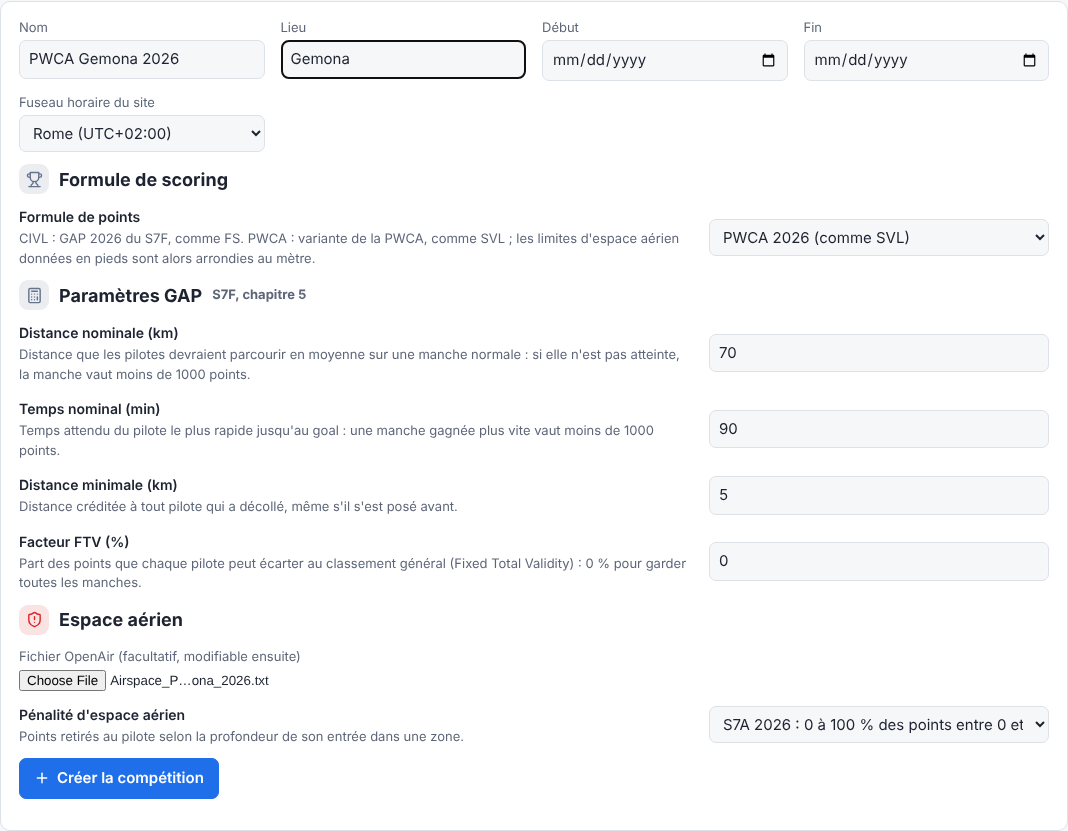
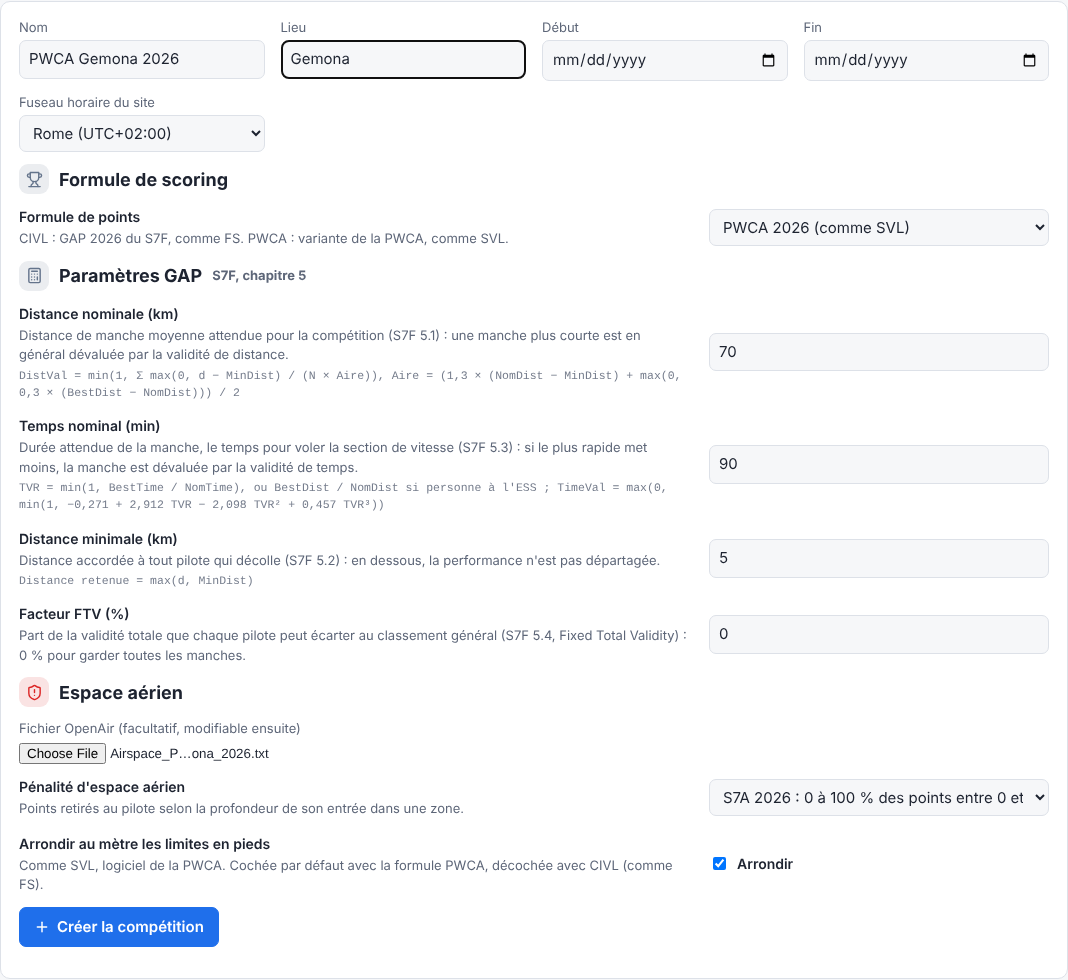
Formules S7F sous les paramètres GAP, arrondi des limites de retour dans la rubrique espace aérien
- Explications revues sur le S7F 5.1 à 5.4, et formule associée en petit sous
  la distance nominale, le temps nominal et la distance minimale.
- Case « Arrondir au mètre les limites en pieds » en fin de rubrique espace
  aérien : cochée par défaut avec PWCA, décochée avec CIVL ; gardée seulement
  si elle s'écarte de la formule, sinon elle la suit.
- Route /airspace/settings pour la pénalité et l'arrondi.

Claude-Session: https://claude.ai/code/session_01QVre6jBDZyAb5KJLDa45nt

diff --git a/apps/web/src/pages/competition.tsx b/apps/web/src/pages/competition.tsx
@@ -1,7 +1,7 @@
 import type { FC } from "hono/jsx";
 import { type Task } from "@pgscore/engine";
 import type { CompetitionRow, PilotRow, TaskRow, User } from "../db.js";
-import { GAP_PROFILES, PENALTY_RULES, type CompetitionSettings } from "../settings.js";
+import { GAP_PROFILES, PENALTY_RULES, roundsAirspaceLimits, type CompetitionSettings } from "../settings.js";
 import { km, timeZoneGroups } from "../time.js";
 import { t } from "../i18n.js";
 import { PILOT_COLUMNS } from "../pilots.js";
@@ -18,11 +18,12 @@ export interface CompetitionFormValues {
 }
 
 /** Un paramètre sur sa ligne : libellé et phrase d'explication à gauche, champ à droite. */
-const Param: FC<{ id: string; label: string; help: string; children: unknown }> = ({ id, label, help, children }) => (
+const Param: FC<{ id: string; label: string; help: string; formula?: string; children: unknown }> = ({ id, label, help, formula, children }) => (
   <div class="param">
     <div>
       <label for={id}>{label}</label>
       <p class="small muted">{help}</p>
+      {formula ? <p class="formula">{formula}</p> : null}
     </div>
     {children}
   </div>
@@ -70,7 +71,7 @@ export const CompetitionFields: FC<{ v: CompetitionFormValues }> = ({ v }) => {
         <Param
           id="gapProfile"
           label={t("Formule de points")}
-          help={t("CIVL : GAP 2026 du S7F, comme FS. PWCA : variante de la PWCA, comme SVL ; les limites d'espace aérien données en pieds sont alors arrondies au mètre.")}
+          help={t("CIVL : GAP 2026 du S7F, comme FS. PWCA : variante de la PWCA, comme SVL.")}
         >
           <select name="gapProfile" id="gapProfile">
             {Object.entries(GAP_PROFILES).map(([k, l]) => (
@@ -90,28 +91,31 @@ export const CompetitionFields: FC<{ v: CompetitionFormValues }> = ({ v }) => {
         <Param
           id="nominalDistance"
           label={t("Distance nominale (km)")}
-          help={t("Distance que les pilotes devraient parcourir en moyenne sur une manche normale : si elle n'est pas atteinte, la manche vaut moins de 1000 points.")}
+          help={t("Distance de manche moyenne attendue pour la compétition (S7F 5.1) : une manche plus courte est en général dévaluée par la validité de distance.")}
+          formula={t("DistVal = min(1, Σ max(0, d − MinDist) / (N × Aire)), Aire = (1,3 × (NomDist − MinDist) + max(0, 0,3 × (BestDist − NomDist))) / 2")}
         >
           <input type="number" step="0.1" min="0" name="nominalDistance" id="nominalDistance" value={String(s.nominalDistance / 1000)} />
         </Param>
         <Param
           id="nominalTime"
           label={t("Temps nominal (min)")}
-          help={t("Temps attendu du pilote le plus rapide jusqu'au goal : une manche gagnée plus vite vaut moins de 1000 points.")}
+          help={t("Durée attendue de la manche, le temps pour voler la section de vitesse (S7F 5.3) : si le plus rapide met moins, la manche est dévaluée par la validité de temps.")}
+          formula={t("TVR = min(1, BestTime / NomTime), ou BestDist / NomDist si personne à l'ESS ; TimeVal = max(0, min(1, −0,271 + 2,912 TVR − 2,098 TVR² + 0,457 TVR³))")}
         >
           <input type="number" step="1" min="1" name="nominalTime" id="nominalTime" value={String(s.nominalTime / 60)} />
         </Param>
         <Param
           id="minimumDistance"
           label={t("Distance minimale (km)")}
-          help={t("Distance créditée à tout pilote qui a décollé, même s'il s'est posé avant.")}
+          help={t("Distance accordée à tout pilote qui décolle (S7F 5.2) : en dessous, la performance n'est pas départagée.")}
+          formula={t("Distance retenue = max(d, MinDist)")}
         >
           <input type="number" step="0.1" min="0" name="minimumDistance" id="minimumDistance" value={String(s.minimumDistance / 1000)} />
         </Param>
         <Param
           id="ftvFactor"
           label={t("Facteur FTV (%)")}
-          help={t("Part des points que chaque pilote peut écarter au classement général (Fixed Total Validity) : 0 % pour garder toutes les manches.")}
+          help={t("Part de la validité totale que chaque pilote peut écarter au classement général (S7F 5.4, Fixed Total Validity) : 0 % pour garder toutes les manches.")}
         >
           <input type="number" step="1" min="0" max="100" name="ftvFactor" id="ftvFactor" value={String(Math.round(s.ftvFactor * 100))} />
         </Param>
@@ -120,17 +124,28 @@ export const CompetitionFields: FC<{ v: CompetitionFormValues }> = ({ v }) => {
   );
 };
 
-/** Barème de pénalité d'espace aérien, dans la rubrique espace aérien. */
-const PenaltyField: FC<{ rule: CompetitionSettings["airspacePenaltyRule"] }> = ({ rule }) => (
+/** Réglages de la rubrique espace aérien : barème de pénalité, puis arrondi des limites en pieds. */
+const AirspaceFields: FC<{ s: CompetitionSettings; follow: boolean }> = ({ s, follow }) => (
   <div class="params">
     <Param id="airspacePenaltyRule" label={t("Pénalité d'espace aérien")} help={t("Points retirés au pilote selon la profondeur de son entrée dans une zone.")}>
       <select name="airspacePenaltyRule" id="airspacePenaltyRule">
         {Object.entries(PENALTY_RULES).map(([k, l]) => (
-          <option value={k} selected={rule === k}>
+          <option value={k} selected={s.airspacePenaltyRule === k}>
             {t(l)}
           </option>
         ))}
       </select>
+    </Param>
+    <Param
+      id="roundAirspaceLimits"
+      label={t("Arrondir au mètre les limites en pieds")}
+      help={t("Comme SVL, logiciel de la PWCA. Cochée par défaut avec la formule PWCA, décochée avec CIVL (comme FS).")}
+    >
+      <label class="check">
+        <input type="hidden" name="airspaceRoundingField" value="1" />
+        <input type="checkbox" name="roundAirspaceLimits" id="roundAirspaceLimits" checked={roundsAirspaceLimits(s)} data-follow-pwca={follow ? "1" : undefined} />
+        {t("Arrondir")}
+      </label>
     </Param>
   </div>
 );
@@ -189,7 +204,7 @@ export const NewCompetitionPage: FC<{ user: User | null; v: CompetitionFormValue
       <label>{t("Fichier OpenAir (facultatif, modifiable ensuite)")}</label>
       <input type="file" name="airspace" accept=".txt,.air,.openair" />
       <div class="mt" data-if-file="airspace" hidden>
-        <PenaltyField rule={v.settings.airspacePenaltyRule} />
+        <AirspaceFields s={v.settings} follow={v.settings.airspaceRounding === undefined} />
       </div>
       <p class="mt">
         <button class="primary">
@@ -462,8 +477,8 @@ const CompetitionEdit: FC<{ c: CompetitionRow; v: CompetitionFormValues; pilots:
         </button>
       </form>
       {c.airspace_name ? (
-        <form method="post" action={`/competitions/${c.id}/airspace/penalty`} class="mt">
-          <PenaltyField rule={v.settings.airspacePenaltyRule} />
+        <form method="post" action={`/competitions/${c.id}/airspace/settings`} class="mt">
+          <AirspaceFields s={v.settings} follow={false} />
           <p class="mt">
             <button class="primary">
               <Bi n="save" />

diff --git a/apps/web/src/settings.ts b/apps/web/src/settings.ts
@@ -15,6 +15,11 @@ export interface CompetitionSettings extends CompetitionParameters {
   /** Formule de points : GAP 2026 de la CIVL (comme FS) ou variante PWCA (comme SVL). */
   gapProfile: GapProfile;
   airspacePenaltyRule: AirspacePenaltyRule;
+  /**
+   * Arrondi au mètre des limites d'espace aérien converties depuis les pieds (comme SVL). Non réglé :
+   * suit la formule (arrondi avec PWCA, pas avec CIVL).
+   */
+  airspaceRounding?: boolean;
   /** Fuseau horaire du site, pour afficher et saisir les heures locales. */
   timeZone: string;
 }
@@ -56,14 +61,17 @@ export const GOAL_LINE_ORIENTATIONS: Record<NonNullable<Task["goalLineOrientatio
 };
 
 /**
- * Limites d'espace aérien converties depuis les pieds arrondies au mètre : avec la formule PWCA,
- * comme SVL (logiciel de la PWCA) ; sans arrondi avec la formule CIVL, comme FS.
+ * Limites d'espace aérien converties depuis les pieds arrondies au mètre : choix de la rubrique espace
+ * aérien, sinon selon la formule : arrondi avec PWCA, comme SVL (logiciel de la PWCA) ; sans arrondi
+ * avec CIVL, comme FS.
  */
-export const roundsAirspaceLimits = (s: Pick<CompetitionSettings, "gapProfile">): boolean => s.gapProfile === "PWCA";
+export const roundsAirspaceLimits = (s: Pick<CompetitionSettings, "gapProfile" | "airspaceRounding">): boolean =>
+  s.airspaceRounding ?? s.gapProfile === "PWCA";
 
 export function parseSettings(json: string): CompetitionSettings {
   // leadingProfile : ancien choix du calcul de leading, retiré (un seul calcul, celui de FS et SVL).
-  // roundAirspaceLimits : ancienne case à cocher, l'arrondi suit maintenant la formule.
+  // roundAirspaceLimits : ancienne case, décochée par défaut quelle que soit la formule ; remplacée par
+  // airspaceRounding, qui suit la formule tant qu'il n'est pas réglé.
   const { leadingProfile: _old, roundAirspaceLimits: _round, ...stored } = JSON.parse(json) as Partial<CompetitionSettings> & {
     leadingProfile?: unknown;
     roundAirspaceLimits?: unknown;
@@ -88,6 +96,16 @@ function isTimeZone(tz: string): boolean {
   }
 }
 
+/**
+ * Arrondi des limites lu depuis la rubrique espace aérien (case présente) ; à défaut, celui d'avant.
+ * Gardé seulement s'il s'écarte de celui de la formule : sinon il continue de suivre la formule.
+ */
+export function airspaceRoundingFromForm(form: Record<string, unknown>, gapProfile: GapProfile, previous: boolean | undefined): boolean | undefined {
+  if (form.airspaceRoundingField !== "1") return previous;
+  const round = form.roundAirspaceLimits === "on";
+  return round === roundsAirspaceLimits({ gapProfile }) ? undefined : round;
+}
+
 /** Barème de pénalité d'espace aérien lu depuis le formulaire ; à défaut, celui d'avant. */
 export function penaltyRuleFromForm(form: Record<string, unknown>, previous: AirspacePenaltyRule = DEFAULT_SETTINGS.airspacePenaltyRule): AirspacePenaltyRule {
   if (form.airspacePenaltyRule === undefined || form.airspacePenaltyRule === "") return previous;
@@ -97,8 +115,8 @@ export function penaltyRuleFromForm(form: Record<string, unknown>, previous: Air
 }
 
 /**
- * Réglages lus depuis le formulaire (distances en km, temps en minutes, FTV en %). La pénalité
- * d'espace aérien se règle dans sa propre rubrique : absente du formulaire, on garde celle d'avant.
+ * Réglages lus depuis le formulaire (distances en km, temps en minutes, FTV en %). La pénalité et
+ * l'arrondi d'espace aérien se règlent dans leur rubrique : absents du formulaire, on garde ceux d'avant.
  */
 export function settingsFromForm(form: Record<string, unknown>, previous: CompetitionSettings = DEFAULT_SETTINGS): CompetitionSettings {
   const gapProfile = String(form.gapProfile ?? DEFAULT_SETTINGS.gapProfile) as GapProfile;
@@ -117,10 +135,12 @@ export function settingsFromForm(form: Record<string, unknown>, previous: Compet
   } catch (e) {
     throw new FormError((e as Error).message);
   }
+  const airspaceRounding = airspaceRoundingFromForm(form, gapProfile, previous.airspaceRounding);
   return {
     ...params,
     gapProfile,
     airspacePenaltyRule,
+    ...(airspaceRounding !== undefined ? { airspaceRounding } : {}),
     timeZone,
   };
 }

diff --git a/apps/web/src/i18n/es.ts b/apps/web/src/i18n/es.ts
@@ -481,14 +481,20 @@ const dict: Record<string, string> = {
   "Distance minimale (km)": "Distancia mínima (km)",
   "Temps nominal (min)": "Tiempo nominal (min)",
   "Facteur FTV (%)": "Factor FTV (%)",
+  "CIVL : GAP 2026 du S7F, comme FS. PWCA : variante de la PWCA, comme SVL.": "CIVL: GAP 2026 del S7F, como FS. PWCA: variante de la PWCA, como SVL.",
+  "Distance de manche moyenne attendue pour la compétition (S7F 5.1) : une manche plus courte est en général dévaluée par la validité de distance.": "Distancia media de manga esperada para la competición (S7F 5.1): una manga más corta suele devaluarse por la validez de distancia.",
+  "DistVal = min(1, Σ max(0, d − MinDist) / (N × Aire)), Aire = (1,3 × (NomDist − MinDist) + max(0, 0,3 × (BestDist − NomDist))) / 2": "DistVal = min(1, Σ max(0, d − MinDist) / (N × Área)), Área = (1,3 × (NomDist − MinDist) + max(0, 0,3 × (BestDist − NomDist))) / 2",
+  "Durée attendue de la manche, le temps pour voler la section de vitesse (S7F 5.3) : si le plus rapide met moins, la manche est dévaluée par la validité de temps.": "Duración esperada de la manga, el tiempo para volar la sección de velocidad (S7F 5.3): si el más rápido tarda menos, la manga se devalúa por la validez de tiempo.",
+  "TVR = min(1, BestTime / NomTime), ou BestDist / NomDist si personne à l'ESS ; TimeVal = max(0, min(1, −0,271 + 2,912 TVR − 2,098 TVR² + 0,457 TVR³))": "TVR = min(1, BestTime / NomTime), o BestDist / NomDist si nadie llega al ESS; TimeVal = max(0, min(1, −0,271 + 2,912 TVR − 2,098 TVR² + 0,457 TVR³))",
+  "Distance accordée à tout pilote qui décolle (S7F 5.2) : en dessous, la performance n'est pas départagée.": "Distancia otorgada a todo piloto que despega (S7F 5.2): por debajo, el rendimiento no se desempata.",
+  "Distance retenue = max(d, MinDist)": "Distancia puntuada = max(d, MinDist)",
+  "Part de la validité totale que chaque pilote peut écarter au classement général (S7F 5.4, Fixed Total Validity) : 0 % pour garder toutes les manches.": "Parte de la validez total que cada piloto puede descartar en la clasificación general (S7F 5.4, Fixed Total Validity): 0 % para conservar todas las mangas.",
+  "Arrondir au mètre les limites en pieds": "Redondear al metro los límites en pies",
+  "Comme SVL, logiciel de la PWCA. Cochée par défaut avec la formule PWCA, décochée avec CIVL (comme FS).": "Como SVL, el software de la PWCA. Marcada por defecto con la fórmula PWCA, desmarcada con CIVL (como FS).",
+  "Arrondir": "Redondear",
   "Formule de scoring": "Fórmula de puntuación",
-  "CIVL : GAP 2026 du S7F, comme FS. PWCA : variante de la PWCA, comme SVL ; les limites d'espace aérien données en pieds sont alors arrondies au mètre.": "CIVL: GAP 2026 del S7F, como FS. PWCA: variante de la PWCA, como SVL; los límites de espacio aéreo dados en pies se redondean entonces al metro.",
   "Paramètres GAP": "Parámetros GAP",
   "S7F, chapitre 5": "S7F, capítulo 5",
-  "Distance que les pilotes devraient parcourir en moyenne sur une manche normale : si elle n'est pas atteinte, la manche vaut moins de 1000 points.": "Distancia que los pilotos deberían recorrer de media en una manga normal: si no se alcanza, la manga vale menos de 1000 puntos.",
-  "Temps attendu du pilote le plus rapide jusqu'au goal : une manche gagnée plus vite vaut moins de 1000 points.": "Tiempo esperado del piloto más rápido hasta el gol: una manga ganada más rápido vale menos de 1000 puntos.",
-  "Distance créditée à tout pilote qui a décollé, même s'il s'est posé avant.": "Distancia acreditada a todo piloto que despegó, aunque haya aterrizado antes.",
-  "Part des points que chaque pilote peut écarter au classement général (Fixed Total Validity) : 0 % pour garder toutes les manches.": "Parte de los puntos que cada piloto puede descartar en la clasificación general (Fixed Total Validity): 0 % para conservar todas las mangas.",
   "Points retirés au pilote selon la profondeur de son entrée dans une zone.": "Puntos retirados al piloto según la profundidad de su entrada en una zona.",
   "Formule de points": "Fórmula de puntos",
   "Leading": "Leading",

diff --git a/apps/web/src/i18n/de.ts b/apps/web/src/i18n/de.ts
@@ -481,14 +481,20 @@ const dict: Record<string, string> = {
   "Distance minimale (km)": "Mindestdistanz (km)",
   "Temps nominal (min)": "Nominalzeit (min)",
   "Facteur FTV (%)": "FTV-Faktor (%)",
+  "CIVL : GAP 2026 du S7F, comme FS. PWCA : variante de la PWCA, comme SVL.": "CIVL: GAP 2026 nach S7F, wie FS. PWCA: Variante der PWCA, wie SVL.",
+  "Distance de manche moyenne attendue pour la compétition (S7F 5.1) : une manche plus courte est en général dévaluée par la validité de distance.": "Erwartete mittlere Aufgabendistanz des Wettbewerbs (S7F 5.1): eine kürzere Aufgabe wird meist über die Distanzvalidität abgewertet.",
+  "DistVal = min(1, Σ max(0, d − MinDist) / (N × Aire)), Aire = (1,3 × (NomDist − MinDist) + max(0, 0,3 × (BestDist − NomDist))) / 2": "DistVal = min(1, Σ max(0, d − MinDist) / (N × Fläche)), Fläche = (1,3 × (NomDist − MinDist) + max(0, 0,3 × (BestDist − NomDist))) / 2",
+  "Durée attendue de la manche, le temps pour voler la section de vitesse (S7F 5.3) : si le plus rapide met moins, la manche est dévaluée par la validité de temps.": "Erwartete Dauer der Aufgabe, die Zeit für die Speed-Section (S7F 5.3): ist der Schnellste schneller, wird die Aufgabe über die Zeitvalidität abgewertet.",
+  "TVR = min(1, BestTime / NomTime), ou BestDist / NomDist si personne à l'ESS ; TimeVal = max(0, min(1, −0,271 + 2,912 TVR − 2,098 TVR² + 0,457 TVR³))": "TVR = min(1, BestTime / NomTime), oder BestDist / NomDist, wenn niemand das ESS erreicht; TimeVal = max(0, min(1, −0,271 + 2,912 TVR − 2,098 TVR² + 0,457 TVR³))",
+  "Distance accordée à tout pilote qui décolle (S7F 5.2) : en dessous, la performance n'est pas départagée.": "Distanz, die jedem gestarteten Piloten zuerkannt wird (S7F 5.2): darunter wird die Leistung nicht unterschieden.",
+  "Distance retenue = max(d, MinDist)": "Gewertete Distanz = max(d, MinDist)",
+  "Part de la validité totale que chaque pilote peut écarter au classement général (S7F 5.4, Fixed Total Validity) : 0 % pour garder toutes les manches.": "Anteil der Gesamtvalidität, den jeder Pilot in der Gesamtwertung streichen kann (S7F 5.4, Fixed Total Validity): 0 % behält alle Durchgänge.",
+  "Arrondir au mètre les limites en pieds": "Grenzen in Fuß auf den Meter runden",
+  "Comme SVL, logiciel de la PWCA. Cochée par défaut avec la formule PWCA, décochée avec CIVL (comme FS).": "Wie SVL, die Software der PWCA. Standardmäßig angehakt mit der PWCA-Formel, nicht angehakt mit CIVL (wie FS).",
+  "Arrondir": "Runden",
   "Formule de scoring": "Wertungsformel",
-  "CIVL : GAP 2026 du S7F, comme FS. PWCA : variante de la PWCA, comme SVL ; les limites d'espace aérien données en pieds sont alors arrondies au mètre.": "CIVL: GAP 2026 nach S7F, wie FS. PWCA: Variante der PWCA, wie SVL; Luftraumgrenzen in Fuß werden dann auf den Meter gerundet.",
   "Paramètres GAP": "GAP-Parameter",
   "S7F, chapitre 5": "S7F, Kapitel 5",
-  "Distance que les pilotes devraient parcourir en moyenne sur une manche normale : si elle n'est pas atteinte, la manche vaut moins de 1000 points.": "Strecke, die die Piloten in einem normalen Durchgang im Mittel fliegen sollten: wird sie nicht erreicht, ist der Durchgang weniger als 1000 Punkte wert.",
-  "Temps attendu du pilote le plus rapide jusqu'au goal : une manche gagnée plus vite vaut moins de 1000 points.": "Erwartete Zeit des schnellsten Piloten bis ins Ziel: ein schneller gewonnener Durchgang ist weniger als 1000 Punkte wert.",
-  "Distance créditée à tout pilote qui a décollé, même s'il s'est posé avant.": "Strecke, die jedem gestarteten Piloten gutgeschrieben wird, auch wenn er vorher gelandet ist.",
-  "Part des points que chaque pilote peut écarter au classement général (Fixed Total Validity) : 0 % pour garder toutes les manches.": "Anteil der Punkte, den jeder Pilot in der Gesamtwertung streichen kann (Fixed Total Validity): 0 % behält alle Durchgänge.",
   "Points retirés au pilote selon la profondeur de son entrée dans une zone.": "Punktabzug je nachdem, wie tief der Pilot in eine Zone eingedrungen ist.",
   "Formule de points": "Punkteformel",
   "Leading": "Leading",

diff --git a/apps/web/src/i18n/en.ts b/apps/web/src/i18n/en.ts
@@ -481,14 +481,20 @@ const dict: Record<string, string> = {
   "Distance minimale (km)": "Minimum distance (km)",
   "Temps nominal (min)": "Nominal time (min)",
   "Facteur FTV (%)": "FTV factor (%)",
+  "CIVL : GAP 2026 du S7F, comme FS. PWCA : variante de la PWCA, comme SVL.": "CIVL: GAP 2026 from S7F, like FS. PWCA: the PWCA variant, like SVL.",
+  "Distance de manche moyenne attendue pour la compétition (S7F 5.1) : une manche plus courte est en général dévaluée par la validité de distance.": "Expected average task distance for the competition (S7F 5.1): a shorter task is usually devalued by distance validity.",
+  "DistVal = min(1, Σ max(0, d − MinDist) / (N × Aire)), Aire = (1,3 × (NomDist − MinDist) + max(0, 0,3 × (BestDist − NomDist))) / 2": "DistVal = min(1, Σ max(0, d − MinDist) / (N × Area)), Area = (1.3 × (NomDist − MinDist) + max(0, 0.3 × (BestDist − NomDist))) / 2",
+  "Durée attendue de la manche, le temps pour voler la section de vitesse (S7F 5.3) : si le plus rapide met moins, la manche est dévaluée par la validité de temps.": "Expected task duration, the time to fly the speed section (S7F 5.3): if the fastest pilot is quicker, the task is devalued by time validity.",
+  "TVR = min(1, BestTime / NomTime), ou BestDist / NomDist si personne à l'ESS ; TimeVal = max(0, min(1, −0,271 + 2,912 TVR − 2,098 TVR² + 0,457 TVR³))": "TVR = min(1, BestTime / NomTime), or BestDist / NomDist if nobody reached ESS; TimeVal = max(0, min(1, −0.271 + 2.912 TVR − 2.098 TVR² + 0.457 TVR³))",
+  "Distance accordée à tout pilote qui décolle (S7F 5.2) : en dessous, la performance n'est pas départagée.": "Distance awarded to every pilot who takes off (S7F 5.2): below it, performance is not ranked.",
+  "Distance retenue = max(d, MinDist)": "Scored distance = max(d, MinDist)",
+  "Part de la validité totale que chaque pilote peut écarter au classement général (S7F 5.4, Fixed Total Validity) : 0 % pour garder toutes les manches.": "Share of total validity each pilot can drop in the overall ranking (S7F 5.4, Fixed Total Validity): 0 % keeps every task.",
+  "Arrondir au mètre les limites en pieds": "Round limits in feet to the metre",
+  "Comme SVL, logiciel de la PWCA. Cochée par défaut avec la formule PWCA, décochée avec CIVL (comme FS).": "Like SVL, the PWCA software. Ticked by default with the PWCA formula, unticked with CIVL (like FS).",
+  "Arrondir": "Round",
   "Formule de scoring": "Scoring formula",
-  "CIVL : GAP 2026 du S7F, comme FS. PWCA : variante de la PWCA, comme SVL ; les limites d'espace aérien données en pieds sont alors arrondies au mètre.": "CIVL: GAP 2026 from S7F, like FS. PWCA: the PWCA variant, like SVL; airspace limits given in feet are then rounded to the metre.",
   "Paramètres GAP": "GAP parameters",
   "S7F, chapitre 5": "S7F, chapter 5",
-  "Distance que les pilotes devraient parcourir en moyenne sur une manche normale : si elle n'est pas atteinte, la manche vaut moins de 1000 points.": "Distance pilots should fly on average on a normal task: if it is not reached, the task is worth less than 1000 points.",
-  "Temps attendu du pilote le plus rapide jusqu'au goal : une manche gagnée plus vite vaut moins de 1000 points.": "Expected time of the fastest pilot to goal: a task won faster is worth less than 1000 points.",
-  "Distance créditée à tout pilote qui a décollé, même s'il s'est posé avant.": "Distance credited to every pilot who took off, even if they landed before it.",
-  "Part des points que chaque pilote peut écarter au classement général (Fixed Total Validity) : 0 % pour garder toutes les manches.": "Share of points each pilot can drop in the overall ranking (Fixed Total Validity): 0 % keeps every task.",
   "Points retirés au pilote selon la profondeur de son entrée dans une zone.": "Points taken from the pilot according to how far they entered a zone.",
   "Formule de points": "Points formula",
   "Leading": "Leading",

diff --git a/apps/web/src/pages/layout.tsx b/apps/web/src/pages/layout.tsx
@@ -25,7 +25,7 @@ button,.btn{display:inline-flex;align-items:center;gap:7px;padding:8px 14px;bord
 button.danger{background:var(--bad);border-color:var(--bad);color:#fff;font-weight:600}.card.danger{border-color:color-mix(in srgb,var(--bad) 45%,var(--line))}button.primary,.btn.primary{background:var(--accent);border-color:var(--accent);color:var(--accent-ink);font-weight:600}
 button.link{border:0;background:none;color:var(--muted);padding:0;font-size:13px}a.act{display:inline-flex;align-items:center;gap:7px;color:var(--muted);font-size:13px}a.act:hover,button.link.print-rk:hover{color:var(--accent);text-decoration:none}a.act .bi{color:#21a366}.acts{display:inline-flex;gap:16px;align-items:center;flex-wrap:wrap;margin-right:8px;vertical-align:middle}body.printing .print-me .acts,body.printing a.act{display:none!important}
 .row{display:flex;gap:10px;align-items:center;flex-wrap:wrap}.mt{margin-top:12px}.mb{margin-bottom:12px}
-.params{display:flex;flex-direction:column;gap:14px}.param{display:grid;grid-template-columns:minmax(0,1fr) 340px;gap:4px 20px;align-items:center}.param label{margin:0;color:var(--text);font-size:14px;font-weight:600}.param p{margin:2px 0 0}
+.params{display:flex;flex-direction:column;gap:14px}.param{display:grid;grid-template-columns:minmax(0,1fr) 340px;gap:4px 20px;align-items:center}.param label{margin:0;color:var(--text);font-size:14px;font-weight:600}.param p{margin:2px 0 0}.param .formula{font-family:ui-monospace,Menlo,monospace;font-size:11.5px;color:var(--muted);opacity:.85}
 @media (max-width:640px){.param{grid-template-columns:1fr}}
 .muted{color:var(--muted)}.badge{display:inline-block;margin-left:6px;padding:0 6px;border-radius:8px;font-size:12px;background:var(--accent);color:var(--accent-ink)}details.replace{display:inline-block;margin-right:8px}details.replace summary{cursor:pointer;color:var(--accent);font-size:14px}details.replace form{display:flex;flex-direction:column;gap:6px;margin-top:6px;min-width:260px}.small{font-size:13px}.badge.warn{background:var(--warn);color:#fff}tr.from-tracks td{background:var(--chip)}
 .err{background:color-mix(in srgb,var(--bad) 12%,var(--card));border:1px solid var(--bad);color:var(--text);padding:10px 12px;border-radius:8px;margin-bottom:16px}

diff --git a/apps/web/test/app.test.ts b/apps/web/test/app.test.ts
@@ -96,8 +96,9 @@ describe("interface web", () => {
     // Formule de scoring en premier, avant les paramètres GAP ; pénalité dans la rubrique espace aérien.
     expect(edit.indexOf('name="gapProfile"')).toBeLessThan(edit.indexOf('name="nominalDistance"'));
     expect(edit.indexOf('name="airspacePenaltyRule"')).toBeGreaterThan(edit.indexOf('id="airspace"'));
-    expect(edit).toContain(`action="${compUrl}/airspace/penalty"`);
-    expect(edit).not.toContain("roundAirspaceLimits");
+    expect(edit).toContain(`action="${compUrl}/airspace/settings"`);
+    // Arrondi des limites : en fin de rubrique espace aérien.
+    expect(edit.indexOf('name="roundAirspaceLimits"')).toBeGreaterThan(edit.indexOf('name="airspacePenaltyRule"'));
     // Le formulaire de la compétition, sans pénalité, garde celle d'avant.
     const { airspacePenaltyRule: _p, ...rest } = competitionFields;
     const r = await req(compUrl, { method: "POST", body: new URLSearchParams({ ...rest, gapProfile: "PWCA" }) });
@@ -106,9 +107,13 @@ describe("interface web", () => {
     expect(params().gapProfile).toBe("PWCA");
     expect(roundsAirspaceLimits(params())).toBe(true);
     expect(roundsAirspaceLimits({ gapProfile: "S7F2026" })).toBe(false);
-    const rp = await req(`${compUrl}/airspace/penalty`, { method: "POST", body: new URLSearchParams({ airspacePenaltyRule: "pwca-hard" }) });
+    // Case décochée : plus d'arrondi, même avec PWCA ; le réglage tient quand on réenregistre la compétition.
+    const rp = await req(`${compUrl}/airspace/settings`, { method: "POST", body: new URLSearchParams({ airspacePenaltyRule: "pwca-hard", airspaceRoundingField: "1" }) });
     expect(rp.status).toBe(302);
     expect(params().airspacePenaltyRule).toBe("pwca-hard");
+    expect(roundsAirspaceLimits(params())).toBe(false);
+    await req(compUrl, { method: "POST", body: new URLSearchParams({ ...rest, gapProfile: "PWCA" }) });
+    expect(params().airspaceRounding).toBe(false);
     expect(params().nominalDistance).toBe(60000);
   });
 

diff --git a/apps/web/src/routes/competitions.tsx b/apps/web/src/routes/competitions.tsx
@@ -5,7 +5,7 @@ import { decodeText } from "../files.js";
 import { isRunning, startRuns } from "../runner.js";
 import { linkTracks } from "../tracks.js";
 import { touchScoring } from "../decisions.js";
-import { DEFAULT_SETTINGS, FormError, parseSettings, penaltyRuleFromForm, settingsFromForm } from "../settings.js";
+import { DEFAULT_SETTINGS, FormError, airspaceRoundingFromForm, parseSettings, penaltyRuleFromForm, settingsFromForm } from "../settings.js";
 import { t } from "../i18n.js";
 import { competitionStandings, extractStandings, standingsCsv, type StandingsView } from "../standings.js";
 import { addDefaultRankings, createRanking, deleteRanking, getRanking, listRankings, rankingMembers, setOverride, updateRanking } from "../rankings.js";
@@ -385,14 +385,20 @@ export function competitionsRoutes(app: App, ctx: Ctx) {
     }
   });
 
-  // Barème de pénalité d'espace aérien, réglé dans la rubrique espace aérien.
-  app.post("/competitions/:id/airspace/penalty", async (c) => {
+  // Barème de pénalité et arrondi des limites, réglés dans la rubrique espace aérien.
+  app.post("/competitions/:id/airspace/settings", async (c) => {
     const comp = competition(c, c.req.param("id"));
     if (!comp) return notFound(c);
     const f = await c.req.parseBody();
     try {
       const s = parseSettings(comp.params);
-      const settings = { ...s, airspacePenaltyRule: penaltyRuleFromForm(f, s.airspacePenaltyRule) };
+      const { airspaceRounding: _old, ...rest } = s;
+      const airspaceRounding = airspaceRoundingFromForm(f, s.gapProfile, s.airspaceRounding);
+      const settings = {
+        ...rest,
+        airspacePenaltyRule: penaltyRuleFromForm(f, s.airspacePenaltyRule),
+        ...(airspaceRounding !== undefined ? { airspaceRounding } : {}),
+      };
       db.prepare("UPDATE competitions SET params = ? WHERE id = ?").run(JSON.stringify(settings), comp.id);
       return c.redirect(`/competitions/${comp.id}/edit?ok=1#airspace`);
     } catch (e) {

diff --git a/apps/web/src/static/common.js b/apps/web/src/static/common.js
@@ -26,3 +26,15 @@
   if (document.readyState === "loading") document.addEventListener("DOMContentLoaded", sync);
   else sync();
 })();
+
+// Case qui suit la formule choisie (data-follow-pwca) : cochée avec PWCA, tant qu'on n'y a pas touché.
+(function () {
+  "use strict";
+  document.addEventListener("change", (ev) => {
+    const el = /** @type {HTMLElement} */ (ev.target);
+    if (el instanceof HTMLInputElement && el.dataset.followPwca) delete el.dataset.followPwca;
+    if (!(el instanceof HTMLSelectElement) || el.name !== "gapProfile" || !el.form) return;
+    for (const box of el.form.querySelectorAll("input[type=checkbox][data-follow-pwca]"))
+      /** @type {HTMLInputElement} */ (box).checked = el.value === "PWCA";
+  });
+})();
